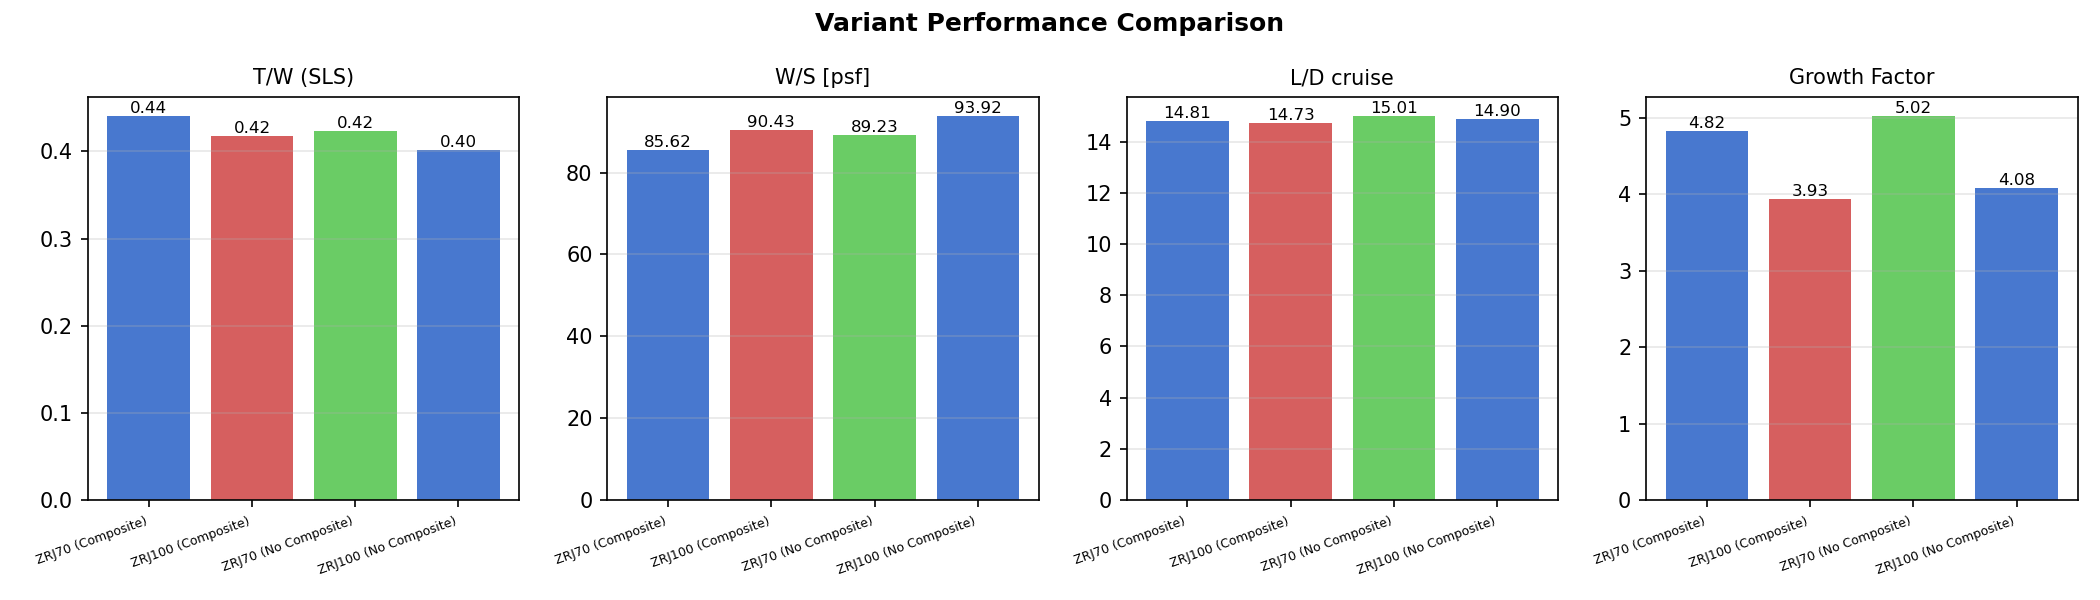
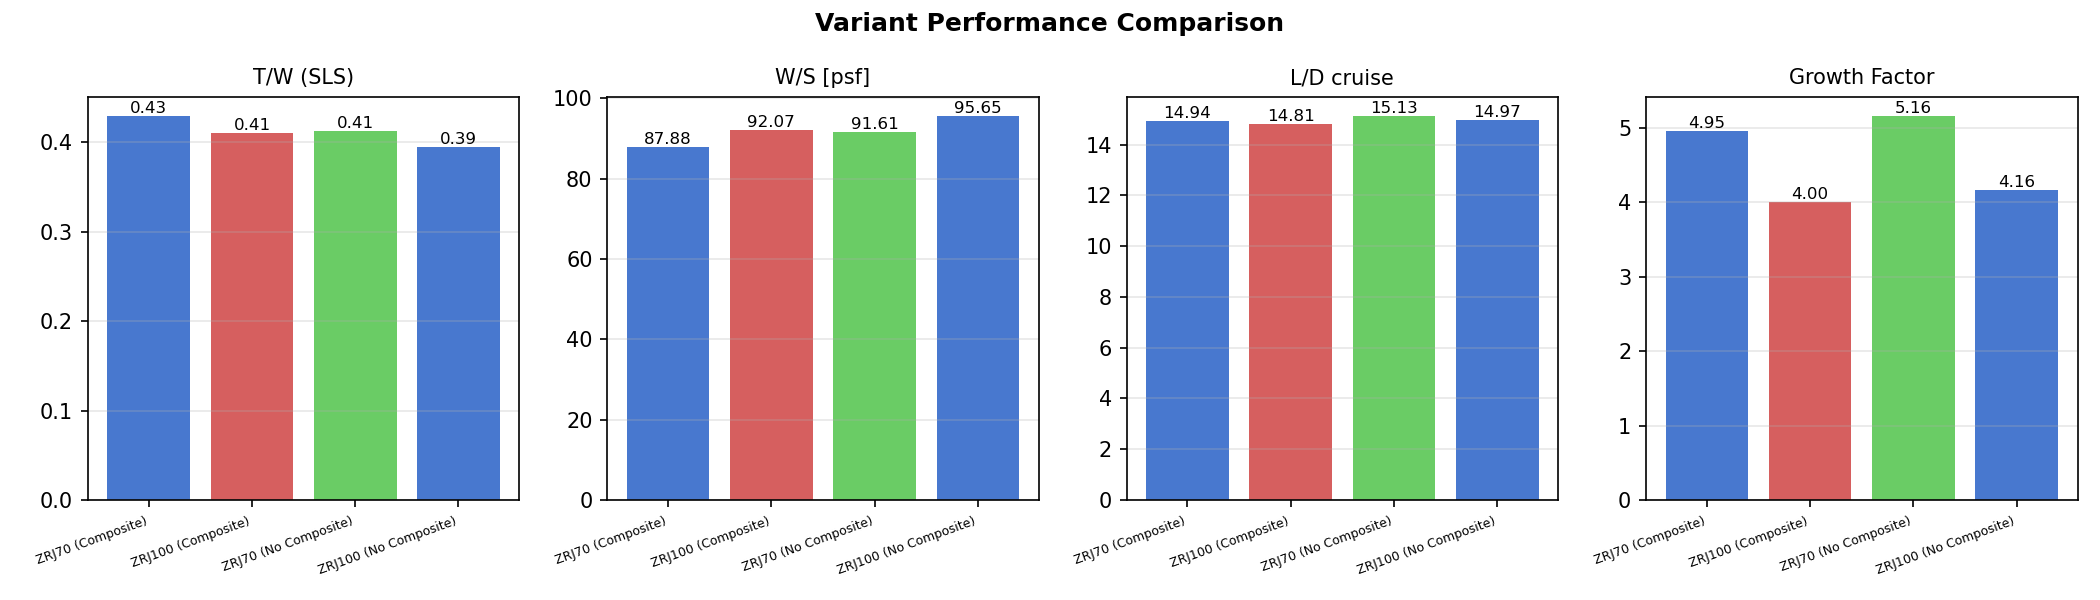
Revert TSFC to Raymer Table 3.3 values (0.50/0.40)
Regression-based Ch. 6 sizing should use Raymer's statistical TSFC.
Refined engine-specific values belong in Ch. 17 mission analysis.
Added MTOW cap warning for ZRJ70 variants.

diff --git a/data/ZRJ100.py b/data/ZRJ100.py
@@ -29,8 +29,8 @@ AIRCRAFT = {
 
     # --- Engine (PW1200G) ---
     "engine_name": "PW1200G",
-    "tsfc_cruise": 0.46,               # lb/(lb-hr), modern GTF at BPR 9
-    "tsfc_loiter": 0.37,               # lb/(lb-hr), ~80% of cruise
+    "tsfc_cruise": 0.50,               # lb/(lb-hr), Raymer Table 3.3 (high-BPR turbofan)
+    "tsfc_loiter": 0.40,               # lb/(lb-hr), ~80% of cruise
     "max_thrust_per_engine": 19_190,    # lbf, sea level static
     "num_engines": 2,
     "bypass_ratio": 9.0,

diff --git a/data/ZRJ50.py b/data/ZRJ50.py
@@ -30,8 +30,8 @@ AIRCRAFT = {
 
     # --- Engine (PW1200G) ---
     "engine_name": "PW1200G",
-    "tsfc_cruise": 0.46,               # lb/(lb-hr), modern GTF at BPR 9
-    "tsfc_loiter": 0.37,               # lb/(lb-hr), ~80% of cruise
+    "tsfc_cruise": 0.50,               # lb/(lb-hr), Raymer Table 3.3 (high-BPR turbofan)
+    "tsfc_loiter": 0.40,               # lb/(lb-hr), ~80% of cruise
     "max_thrust_per_engine": 19_190,    # lbf, sea level static
     "num_engines": 2,
     "bypass_ratio": 9.0,

diff --git a/data/ZRJ70.py b/data/ZRJ70.py
@@ -29,8 +29,8 @@ AIRCRAFT = {
 
     # --- Engine (PW1200G) ---
     "engine_name": "PW1200G",
-    "tsfc_cruise": 0.46,               # lb/(lb-hr), modern GTF at BPR 9
-    "tsfc_loiter": 0.37,               # lb/(lb-hr), ~80% of cruise
+    "tsfc_cruise": 0.50,               # lb/(lb-hr), Raymer Table 3.3 (high-BPR turbofan)
+    "tsfc_loiter": 0.40,               # lb/(lb-hr), ~80% of cruise
     "max_thrust_per_engine": 19_190,    # lbf, sea level static
     "num_engines": 2,
     "bypass_ratio": 9.0,

diff --git a/README.md b/README.md
@@ -33,7 +33,7 @@ python3 plots.py
 | Parameter | Value |
 |-----------|-------|
 | Engine | PW1200G (2 × 19,190 lbf SLS, BPR 9) |
-| TSFC | 0.46 cruise / 0.37 loiter [lb/(lb·hr)] |
+| TSFC | 0.50 cruise / 0.40 loiter [lb/(lb·hr)] |
 | Cruise | Mach 0.78 at 35,000 ft |
 | Wing Area | 1,016.58 ft² |
 | Aspect Ratio | 7.8 |
@@ -52,7 +52,7 @@ python3 plots.py
 | ZRJ100 (No Composite) | 100 | 23,380 | 1,200 | 0.01910 | 1.00 |
 | ZRJ50 (Composite) | 50 | 11,350 | 1,800* | 0.01843 | 0.97 |
 
-*Fixed W0 = 65,000 lbs, same airframe as ZRJ70 (We = 48,704 lbs). Mission is infeasible — see below.
+*Fixed W0 = 65,000 lbs, same airframe as ZRJ70 (We = 49,600 lbs). Mission is infeasible — see below.
 
 Composite factor of 0.97 reflects composite wing + tail with metal fuselage.
 
@@ -60,35 +60,35 @@ Composite factor of 0.97 reflects composite wing + tail with metal fuselage.
 
 | Parameter | ZRJ70 (Comp) | ZRJ100 (Comp) | ZRJ70 (No Comp) | ZRJ100 (No Comp) |
 |-----------|-------------|---------------|-----------------|-------------------|
-| W0 [lbs] | 87,043 | 91,927 | 90,710 | 95,473 |
-| We [lbs] | 48,704 | 50,607 | 51,687 | 53,577 |
-| Total Fuel [lbs] | 19,495 | 17,152 | 20,180 | 17,728 |
-| Trip Fuel [lbs] | 15,168 | 12,604 | 15,679 | 13,012 |
-| Reserve Fuel [lbs] | 4,327 | 4,548 | 4,501 | 4,715 |
-| T/W (SLS) | 0.441 | 0.418 | 0.423 | 0.402 |
-| W/S [psf] | 85.6 | 90.4 | 89.2 | 93.9 |
-| L/D cruise | 14.81 | 14.73 | 15.01 | 14.90 |
+| W0 [lbs] | 89,332 | 93,598 | 93,133 | 97,231 |
+| We [lbs] | 49,600 | 51,251 | 52,652 | 54,268 |
+| Total Fuel [lbs] | 20,889 | 18,179 | 21,638 | 18,795 |
+| Trip Fuel [lbs] | 16,329 | 13,417 | 16,892 | 13,857 |
+| Reserve Fuel [lbs] | 4,560 | 4,761 | 4,745 | 4,938 |
+| T/W (SLS) | 0.430 | 0.410 | 0.412 | 0.395 |
+| W/S [psf] | 87.9 | 92.1 | 91.6 | 95.6 |
+| L/D cruise | 14.94 | 14.81 | 15.13 | 14.97 |
 | (L/D)_max | 15.82 | 15.54 | 15.82 | 15.54 |
-| Growth Factor | 4.82 | 3.93 | 5.02 | 4.08 |
+| Growth Factor | 4.95 | 4.00 | 5.16 | 4.16 |
 
 ### ZRJ50 (Composite) — Same Airframe, Fixed W0 = 65,000 lbs
 
-CRJ550-style derivative: same airframe as ZRJ70 (We = 48,704 lbs), reconfigured to 50-seat cabin, constrained to W0 = 65,000 lbs.
+CRJ550-style derivative: same airframe as ZRJ70 (We = 49,600 lbs), reconfigured to 50-seat cabin, constrained to W0 = 65,000 lbs.
 
-**Result: Infeasible at 65,000 lbs.** Even at zero cruise range, overhead weight (We + min fuel + crew + payload = 68,210 lbs) exceeds the cap by 3,210 lbs. The minimum W0 for any useful mission is ~68,586 lbs.
+**Result: Infeasible at 65,000 lbs.** Even at zero cruise range, overhead weight (We + min fuel + crew + payload = 69,252 lbs) exceeds the cap by 4,252 lbs. The minimum W0 for any useful mission is ~69,758 lbs.
 
 W0 vs. maximum range (same airframe, same payload):
 
 | W0 [lbs] | Max Range [nm] |
 |-----------|---------------|
 | 65,000 | Infeasible |
-| 68,000 | Infeasible |
-| 70,000 | 337 |
-| 72,000 | 671 |
-| 74,000 | 1,004 |
-| 76,000 | 1,334 |
-| 78,000 | 1,662 |
-| 80,000 | 1,987 |
+| 69,000 | Infeasible |
+| 71,000 | 290 |
+| 73,000 | 595 |
+| 75,000 | 899 |
+| 77,000 | 1,199 |
+| 79,000 | 1,498 |
+| 81,000 | 1,795 |
 
 ## Methods
 
